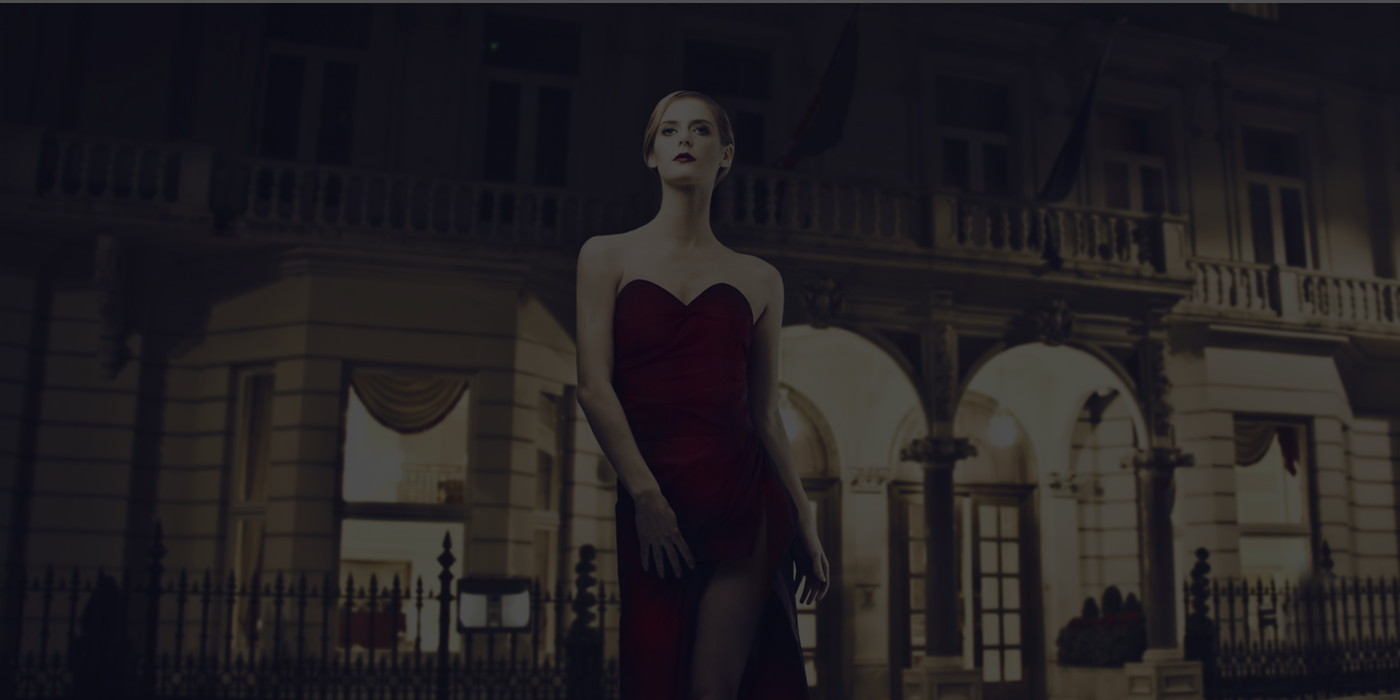
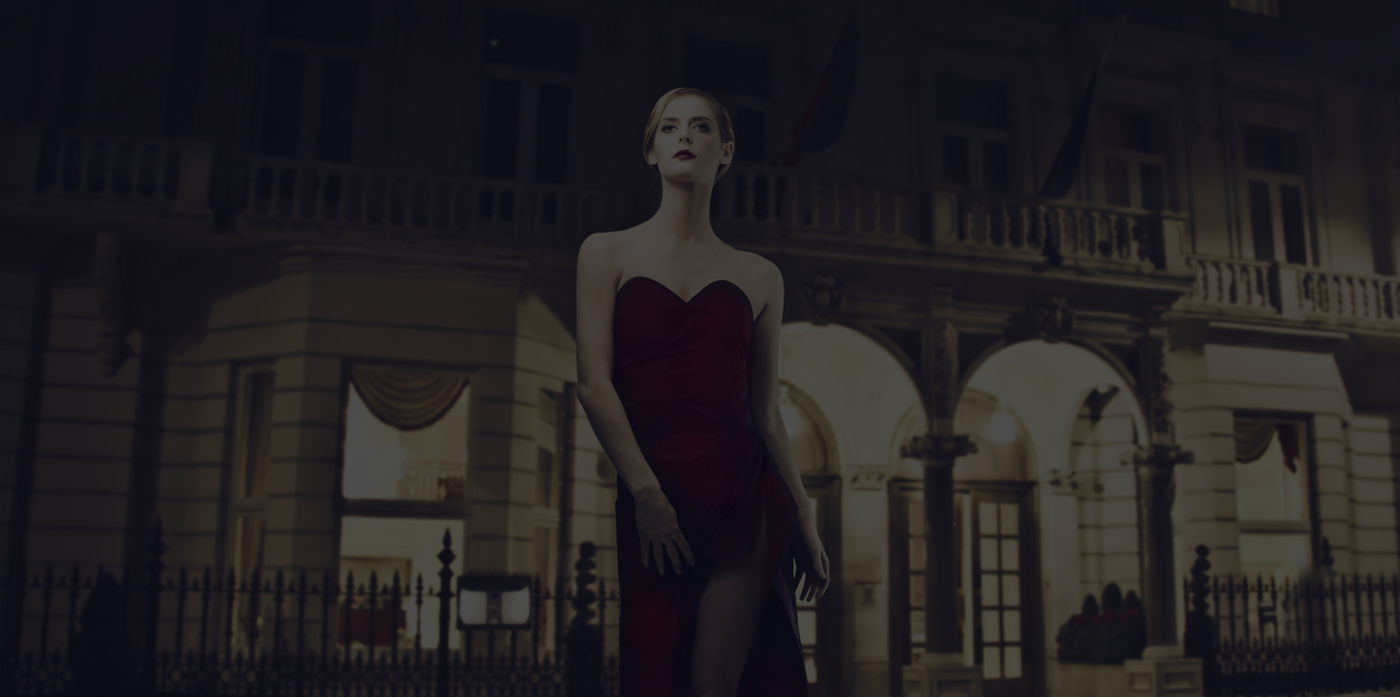
add slider first section

Changed region(s): [[0.0, 0.0, 1.0, 0.0301], [0.4607, 0.2109, 0.4914, 0.241]]

diff --git a/assets/css/main.min.css b/assets/css/main.min.css
@@ -1,3 +1,3 @@
-@font-face{font-family:"ArialRegular";src:url("/assets/fonts/ArialRegular/ArialRegular.eot");src:url("/assets/fonts/ArialRegular/ArialRegular.eot?#iefix") format("embedded-opentype"),url("/assets/fonts/ArialRegular/ArialRegular.woff") format("woff"),url("/assets/fonts/ArialRegular/ArialRegular.ttf") format("truetype");font-style:normal;font-weight:normal}.custom-navbar{background-color:#000;padding-top:0;padding-bottom:0}.custom-navbar .navbar-brand{position:fixed;top:0;padding:0}.custom-navbar .nav-link{font:400 18px/22px 'Arial', sans-serif;color:#a4a4a4;text-decoration:none;padding-top:23px;padding-bottom:21px;border-bottom:2px solid #000;border-top:2px solid #000}.custom-navbar .nav-link:hover{color:#fff;border-bottom:2px solid #ff0036;border-top:2px solid #ff0036}.custom-navbar .nav-item{padding-left:17px}body{font:400 16px/22px 'Arial', sans-serif;background-color:#fff}.container{max-width:1180px}.first-section{min-height:500px;background:url(../../images/background.png) no-repeat center center fixed;-webkit-background-size:cover;-moz-background-size:cover;-o-background-size:cover;background-size:cover}
+@font-face{font-family:"ArialRegular";src:url("/assets/fonts/ArialRegular/ArialRegular.eot");src:url("/assets/fonts/ArialRegular/ArialRegular.eot?#iefix") format("embedded-opentype"),url("/assets/fonts/ArialRegular/ArialRegular.woff") format("woff"),url("/assets/fonts/ArialRegular/ArialRegular.ttf") format("truetype");font-style:normal;font-weight:normal}.title-font{font:400 30px/36px 'Arial', sans-serif}.text-red{color:#ff0036}.custom-navbar{background-color:#000;padding-top:0;padding-bottom:0}.custom-navbar .navbar-brand{position:absolute;z-index:50;top:0;padding:0}.custom-navbar .nav-link{font:400 18px/22px 'Arial', sans-serif;color:#a4a4a4;text-decoration:none;padding-top:23px;padding-bottom:21px;border-bottom:2px solid #000;border-top:2px solid #000}.custom-navbar .nav-link:hover{color:#fff;border-bottom:2px solid #ff0036;border-top:2px solid #ff0036}.custom-navbar .nav-item{padding-left:17px}body{font:400 16px/22px 'Arial', sans-serif;background-color:#fff}.container{max-width:1180px}.first-section .carousel-caption{top:40%}
 
[2 lines of base64/hex data omitted]

diff --git a/index.html b/index.html
@@ -60,8 +60,44 @@
 </header>
 
 <section class="first-section">
-    <div class="container">
-
+    <div class="bd-example">
+        <div id="carouselExampleCaptions" class="carousel slide" data-ride="carousel">
+            <div class="carousel-inner">
+                <div class="carousel-item active">
+                    <img src="images/background.png" class="d-block w-100" alt="...">
+                    <div class="carousel-caption">
+                        <h2 class="title-font text-white">why <span class="text-red">creativia ?</span></h2>
+                        <p>Nulla vitae elit libero, a pharetra augue mollis interdum.</p>
+                        <div class="row">
+                            <a href="#" title="Home link">features</a>
+                            <a href="#" title="Home link">features</a>
+                        </div>
+                    </div>
+                </div>
+                <div class="carousel-item">
+                    <img src="images/background.png" class="d-block w-100" alt="...">
+                    <div class="carousel-caption">
+                        <h5>Second slide label</h5>
+                        <p>Lorem ipsum dolor sit amet, consectetur adipiscing elit.</p>
+                    </div>
+                </div>
+                <div class="carousel-item">
+                    <img src="images/background.png" class="d-block w-100" alt="...">
+                    <div class="carousel-caption">
+                        <h5>Third slide label</h5>
+                        <p>Praesent commodo cursus magna, vel scelerisque nisl consectetur.</p>
+                    </div>
+                </div>
+            </div>
+            <a class="carousel-control-prev" href="#carouselExampleCaptions" role="button" data-slide="prev">
+                <span class="carousel-control-prev-icon" aria-hidden="true"></span>
+                <span class="sr-only">Previous</span>
+            </a>
+            <a class="carousel-control-next" href="#carouselExampleCaptions" role="button" data-slide="next">
+                <span class="carousel-control-next-icon" aria-hidden="true"></span>
+                <span class="sr-only">Next</span>
+            </a>
+        </div>
     </div>
 </section>
 
